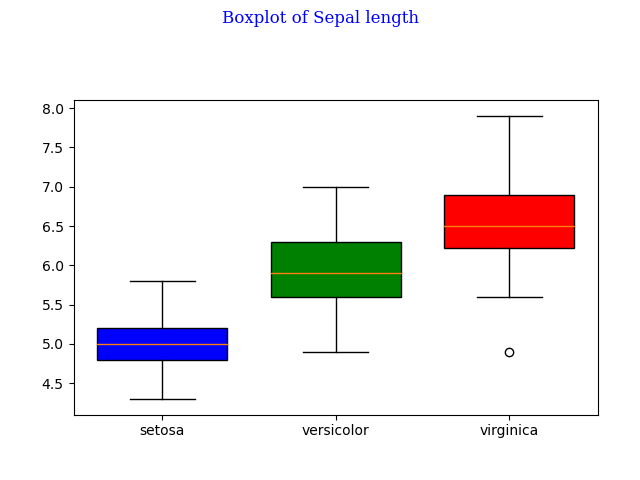
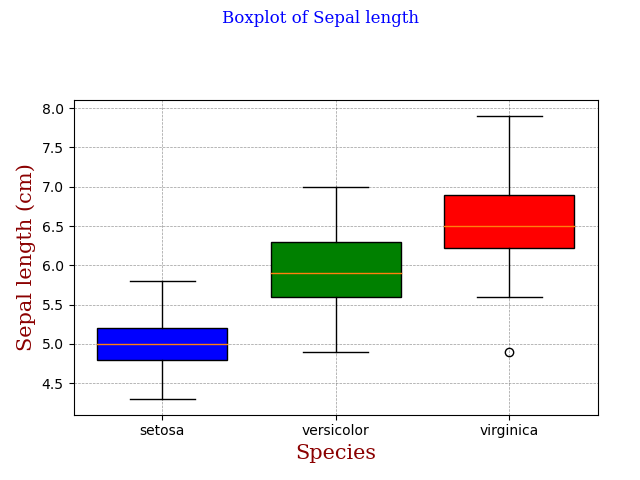
working on boxplots, adding grid, labels, colors

Changed region(s): [[0.0312, 0.3438, 0.0625, 0.75], [0.4688, 0.9062, 0.5938, 0.9688]]

diff --git a/analysis.py b/analysis.py
@@ -173,56 +173,30 @@ def create_scatter_plot(df, x, y): #The function takes in three parameters, the 
 
     #Save the plot as a .png file
     plt.savefig("Plots/" + x + "_vs_" + y + "_scatter.png")
-'''
-def create_boxplot(df, variable): #The function takes in two parameters, the dataframe and the variable to create the boxplot for
 
-    setosa = df[df.species == "Iris-setosa"]
-    versicolor = df[df.species=='Iris-versicolor']
-    virginica = df[df.species=='Iris-virginica']
-
-    colors = ['red', 'green', 'blue'] #The colours for the boxplots
-
-    #The stateless approach to creating a boxplot as recommended by real python website
-    fig, ax = plt.subplots(1,3)
-
-    #Create the boxplot for the variable for each species on the one plot. Therefore three boxplots will be
-    #created on the same plot.
-    ax[0].boxplot(setosa[variable], patch_artist=True, labels=['setosa'], boxprops=dict(color=colors[0]))
-    ax[1].boxplot(versicolor[variable], patch_artist=True, labels=['versicolor'], boxprops=dict(color=colors[1]))
-    ax[2].boxplot(virginica[variable], patch_artist=True, labels=['virginica'], boxprops=dict(color=colors[2]))
-
-    #Set the font for the x and y axis labels and the title (https://www.w3schools.com/python/matplotlib_labels.asp)
-    font1 = {'family':'serif','color':'blue','size':20}
-    font2 = {'family':'serif','color':'darkred','size':15}
-
-    fig.suptitle("Boxplot of " + variable.capitalize().replace('_', ' '), fontdict=font1)
-
-    min = df[variable].min() - 0.2
-    max = df[variable].max() + 0.2
-
-    ax[0].set_ylim(min, max)
-    ax[1].set_ylim(min, max)
-    ax[2].set_ylim(min, max)
-
-    fig.tight_layout(pad=3.0) #Add some padding to the subplots
-
-    #Save the plot as a .png file
-    plt.savefig("Plots/" + variable + "_boxplot.png")
-'''
+#Create a function to create a boxplot for each variable
 def create_boxplot(df, variable): #The function takes in two parameters, the dataframe and the variable to
 
+    #Create local variables for each species
     setosa = df[df.species == "Iris-setosa"]
     versicolor = df[df.species=='Iris-versicolor']
     virginica = df[df.species=='Iris-virginica']
 
+    #Create a list of colours to use for the boxplots
     colors = ['red', 'green', 'blue'] #The colours for the boxplots
 
     #The stateless approach to creating a boxplot as recommended by real python website
     fig, ax = plt.subplots()
 
-    #Create the boxplot for the variable for each species on the one plot. Therefore three boxplots will b
-    #created on the same plot.
+    #Create a boxplot for each variable on one plot. Therefore three boxplots will be created on the same plot.
     ax.boxplot(setosa[variable], positions=[2], widths=1.5, patch_artist=True, labels=['setosa'], boxprops=dict(facecolor=colors[2], color='black'))
+    #positions=[2] is used to position the boxplot on the x-axis
+    #widths=1.5 is used to set the width of the boxplot
+    #patch_artist=True is used to fill the boxplot with colour
+    #labels=['setosa'] is used to label the boxplot
+    #boxprops=dict(facecolor=colors[2], color='black') is used to set the colour of the boxplot
+
+    #We have created a boxplot for setosa and now we need to create a boxplot for versicolor and virginica
     ax.boxplot(versicolor[variable], positions=[4], widths=1.5, patch_artist=True, labels=['versicolor'], boxprops=dict(facecolor=colors[1], color='black'))
     ax.boxplot(virginica[variable], positions=[6], widths=1.5, patch_artist=True, labels=['virginica'], boxprops=dict(facecolor=colors[0], color='black'))
 
@@ -230,14 +204,26 @@ def create_boxplot(df, variable): #The function takes in two parameters, the dat
     font1 = {'family':'serif','color':'blue','size':20}
     font2 = {'family':'serif','color':'darkred','size':15}
 
+    #Add a title to the boxplot
     fig.suptitle("Boxplot of " + variable.capitalize().replace('_', ' '), fontdict=font1)
 
+    #Variables to set the minimum and maximum values for the y-axis
     min = df[variable].min() - 0.2
     max = df[variable].max() + 0.2
 
+    #Set the y-axis limits
     ax.set_ylim(min, max)
 
-    fig.tight_layout(pad=3.0) #Add some padding to the subplots
+    #Add some padding to the subplots
+    fig.tight_layout(pad=3.0) 
+
+    #Set the x and y axis labels
+    ax.set_xlabel("Species", fontdict=font2)
+    ax.set_ylabel(variable.capitalize().replace('_', ' ') + " (cm)", fontdict=font2)
+
+    #Add a grid
+    ax.grid(linestyle='--', linewidth=0.5, color='black', alpha=0.4)
+
 
     #Save the plot as a .png file
     plt.savefig("Plots/" + variable + "_boxplot.png")
